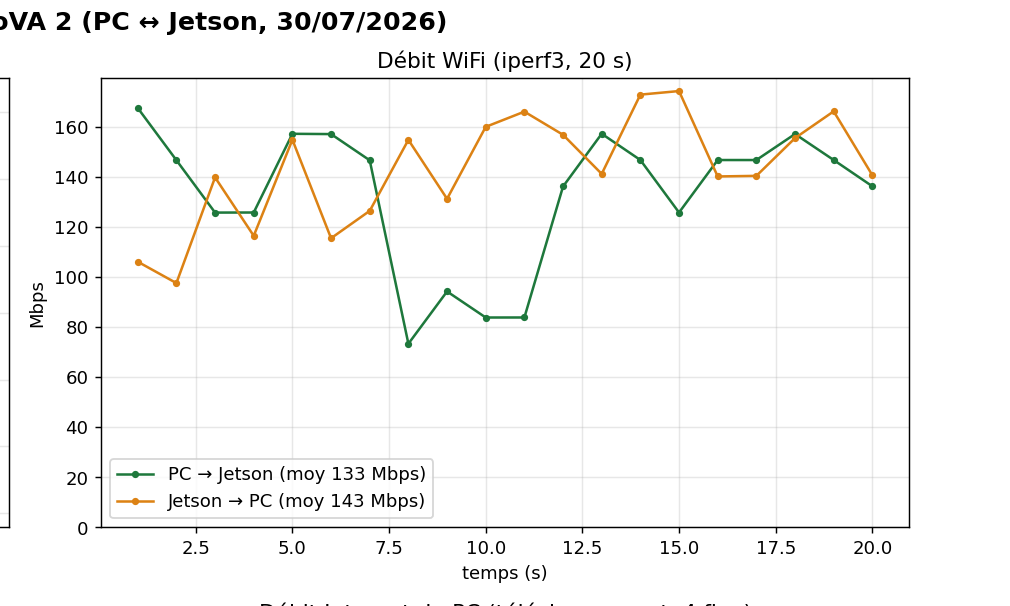
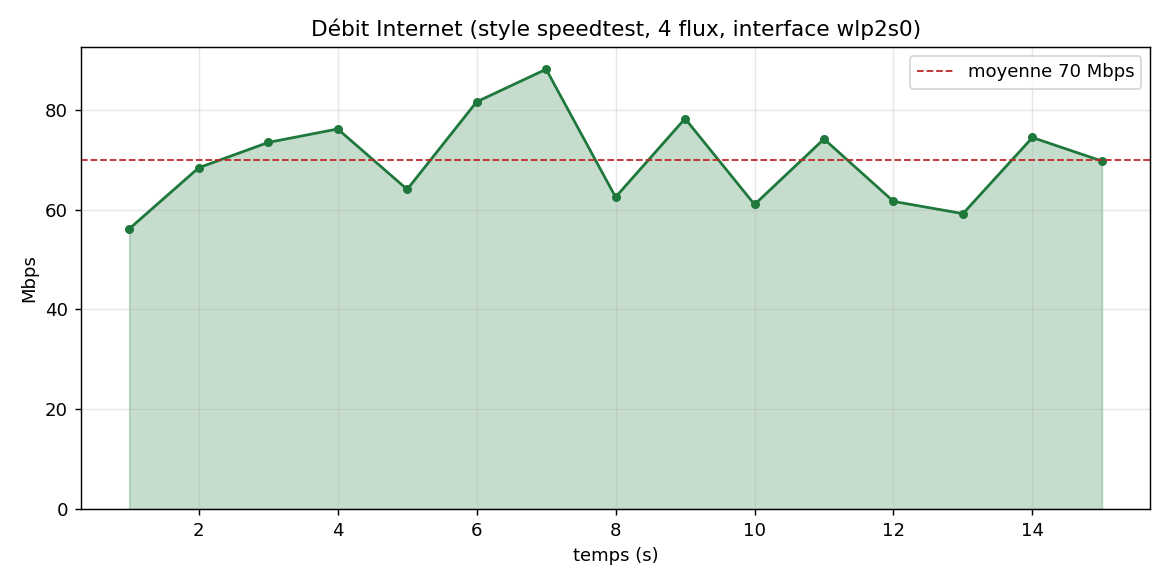
mesures: 3 scripts autonomes commentés (mesure_latence, mesure_debit style speedtest, mesure_fps) — chacun mesure et trace sa courbe

diff --git a/docs/mesures_wifi/mesure_debit.py b/docs/mesures_wifi/mesure_debit.py
@@ -1,0 +1,54 @@
+#!/usr/bin/env python3
+"""
+COURBE 2 — DÉBIT « style speedtest » (comme fast.com).
+Sur quoi ça se base : Linux compte TOUS les octets recus par chaque interface
+reseau dans /sys/class/net/<iface>/statistics/rx_bytes. On lance plusieurs
+telechargements en parallele (pour saturer la connexion, comme le fait un
+speedtest), et chaque seconde on lit ce compteur :
+    debit(t) = (octets_maintenant - octets_il_y_a_1s) x 8 / 1e6   [Mbps]
+
+Usage : python3 mesure_debit.py [duree_s]     (defaut 20 s)
+"""
+import subprocess, sys, time
+import matplotlib; matplotlib.use('Agg')
+import matplotlib.pyplot as plt
+
+duree = int(sys.argv[1]) if len(sys.argv) > 1 else 20
+URL = "https://proof.ovh.net/files/1Gb.dat"      # gros fichier public
+FLUX = 4                                          # 4 telechargements paralleles
+
+# interface qui porte l'internet (celle de la route par defaut)
+route = subprocess.run(["ip", "route", "get", "8.8.8.8"],
+                       capture_output=True, text=True).stdout
+iface = route.split(" dev ")[1].split()[0]
+compteur = f"/sys/class/net/{iface}/statistics/rx_bytes"
+print(f"interface : {iface} | {FLUX} flux vers {URL} | {duree} s")
+
+# lancer les telechargements (jetes dans /dev/null : seul le debit compte)
+dls = [subprocess.Popen(["curl", "-s", "-o", "/dev/null",
+                         "--max-time", str(duree + 2), URL]) for _ in range(FLUX)]
+
+lire = lambda: int(open(compteur).read())
+mbps, prev = [], lire()
+for _ in range(duree):
+    time.sleep(1)
+    cur = lire()
+    mbps.append((cur - prev) * 8 / 1e6)
+    prev = cur
+for p in dls:
+    p.terminate()
+
+moy = sum(mbps) / len(mbps)
+print(f"debit : moy {moy:.1f} Mbps | pic {max(mbps):.1f}")
+open("debit_donnees.txt", "w").write("\n".join(f"{m:.2f}" for m in mbps))
+
+plt.figure(figsize=(9, 4.5))
+t = range(1, len(mbps) + 1)
+plt.fill_between(t, mbps, color="#1E783C", alpha=0.25)
+plt.plot(t, mbps, color="#1E783C", marker="o", ms=4, lw=1.5)
+plt.axhline(moy, color="#BE2828", ls="--", lw=1, label=f"moyenne {moy:.0f} Mbps")
+plt.title(f"Débit Internet (style speedtest, {FLUX} flux, interface {iface})")
+plt.xlabel("temps (s)"); plt.ylabel("Mbps")
+plt.legend(); plt.grid(alpha=0.3); plt.ylim(bottom=0); plt.tight_layout()
+plt.savefig("courbe_debit.png", dpi=130)
+print("-> courbe_debit.png")

diff --git a/docs/mesures_wifi/mesure_fps.py b/docs/mesures_wifi/mesure_fps.py
@@ -1,0 +1,56 @@
+#!/usr/bin/env python3
+"""
+COURBE 3 — FPS de la caméra recus a travers le reseau.
+Sur quoi ça se base : un mini-noeud ROS 2 s'abonne au topic des images
+compressees de la camera ; il INCREMENTE un compteur a chaque image recue,
+et note ce compteur chaque seconde (puis le remet a zero) :
+    fps(t) = nombre d'images arrivees pendant la seconde t
+
+Prerequis : la camera publie (launch_camera.sh sur la Jetson) et l'env ROS
+est charge (ROS_DOMAIN_ID=125, FastDDS pour le WiFi).
+Usage : python3 mesure_fps.py [duree_s]      (defaut 60 s)
+"""
+import sys, time
+import matplotlib; matplotlib.use('Agg')
+import matplotlib.pyplot as plt
+import rclpy
+from rclpy.node import Node
+from rclpy.qos import qos_profile_sensor_data
+from sensor_msgs.msg import CompressedImage
+
+duree = int(sys.argv[1]) if len(sys.argv) > 1 else 60
+TOPIC = "/camera/color/image_raw/compressed"
+
+class Compteur(Node):
+    def __init__(self):
+        super().__init__("mesure_fps")
+        self.n = 0
+        self.create_subscription(CompressedImage, TOPIC,
+                                 lambda m: setattr(self, "n", self.n + 1),
+                                 qos_profile_sensor_data)
+
+rclpy.init()
+node = Compteur()
+print(f"comptage des images sur {TOPIC} pendant {duree} s ...")
+fps = []
+fin = time.time() + duree
+while time.time() < fin:
+    tick = time.time() + 1.0
+    node.n = 0
+    while time.time() < tick:
+        rclpy.spin_once(node, timeout_sec=0.05)
+    fps.append(node.n)
+rclpy.shutdown()
+
+moy = sum(fps) / len(fps)
+print(f"FPS : moy {moy:.1f} | min {min(fps)} | max {max(fps)}")
+open("fps_donnees.txt", "w").write("\n".join(map(str, fps)))
+
+plt.figure(figsize=(9, 4.5))
+plt.plot(range(1, len(fps) + 1), fps, color="#14508C", marker=".", lw=1.2)
+plt.axhline(moy, color="#BE2828", ls="--", lw=1, label=f"moyenne {moy:.1f} FPS")
+plt.title("FPS caméra reçus via le réseau (1280×720 JPEG)")
+plt.xlabel("temps (s)"); plt.ylabel("images/s")
+plt.legend(); plt.grid(alpha=0.3); plt.ylim(0, max(fps) + 5); plt.tight_layout()
+plt.savefig("courbe_fps.png", dpi=130)
+print("-> courbe_fps.png")

diff --git a/docs/mesures_wifi/mesure_latence.py b/docs/mesures_wifi/mesure_latence.py
@@ -1,0 +1,39 @@
+#!/usr/bin/env python3
+"""
+COURBE 1 — LATENCE réseau (ping).
+Sur quoi ça se base : la commande systeme `ping` envoie un paquet ICMP par
+intervalle ; la cible repond ; le temps aller-retour (RTT) de CHAQUE paquet
+est extrait de la sortie ("time=12.3 ms") -> un point de la courbe.
+
+Usage : python3 mesure_latence.py [cible] [duree_s]
+        (defaut : 10.37.11.34, 30 s)
+"""
+import re, subprocess, sys
+import matplotlib; matplotlib.use('Agg')
+import matplotlib.pyplot as plt
+
+cible = sys.argv[1] if len(sys.argv) > 1 else "10.37.11.34"
+duree = int(sys.argv[2]) if len(sys.argv) > 2 else 30
+INTERVALLE = 0.2                      # 1 ping toutes les 0,2 s
+n = int(duree / INTERVALLE)
+
+print(f"ping {cible} : {n} paquets sur {duree} s ...")
+sortie = subprocess.run(["ping", "-i", str(INTERVALLE), "-c", str(n), cible],
+                        capture_output=True, text=True).stdout
+rtt = [float(m) for m in re.findall(r"time=([\d.]+)", sortie)]
+if not rtt:
+    sys.exit("aucune reponse au ping !")
+
+temps = [i * INTERVALLE for i in range(len(rtt))]
+moy = sum(rtt) / len(rtt)
+print(f"RTT : moy {moy:.1f} ms | min {min(rtt):.1f} | max {max(rtt):.1f} | perdus {n-len(rtt)}")
+
+open("latence_donnees.txt", "w").write("\n".join(map(str, rtt)))
+plt.figure(figsize=(9, 4.5))
+plt.plot(temps, rtt, color="#14508C", lw=1)
+plt.axhline(moy, color="#BE2828", ls="--", lw=1, label=f"moyenne {moy:.1f} ms")
+plt.title(f"Latence réseau — ping vers {cible}")
+plt.xlabel("temps (s)"); plt.ylabel("RTT (ms)")
+plt.legend(); plt.grid(alpha=0.3); plt.tight_layout()
+plt.savefig("courbe_latence.png", dpi=130)
+print("-> courbe_latence.png")
